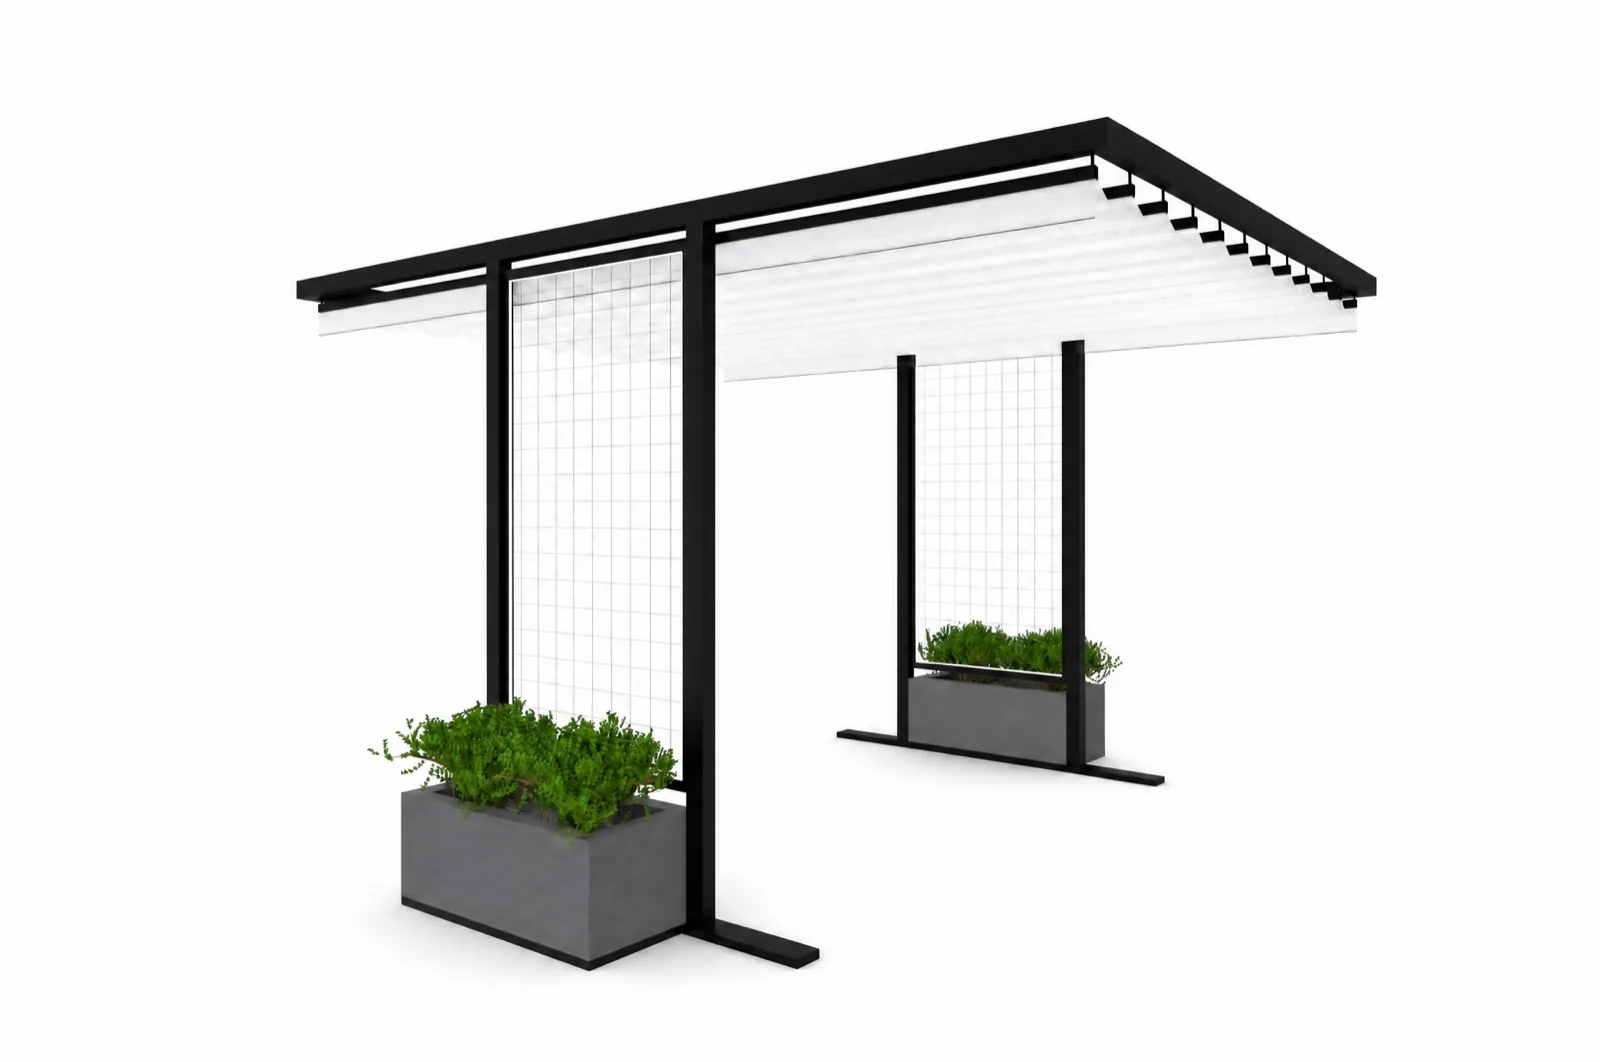
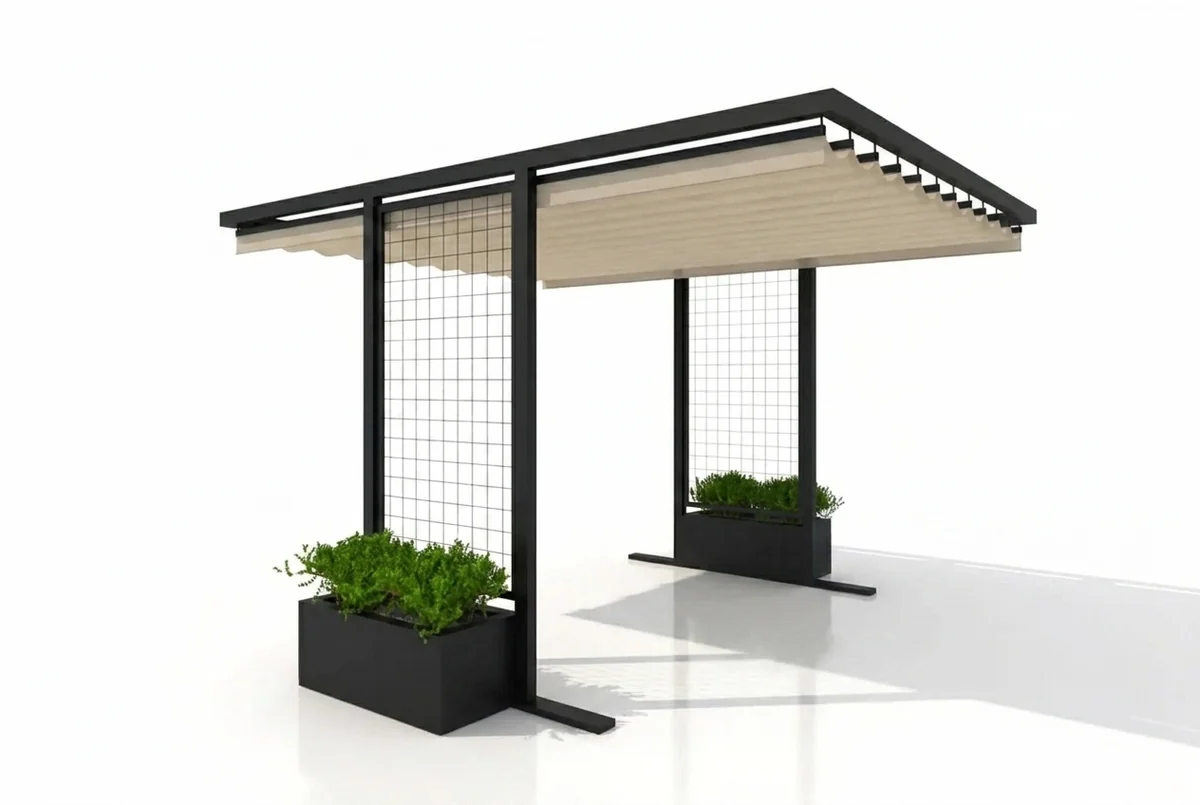
Nowa paleta kolorów producenta (wszystkie serie) + 21 renderów
Paleta zaktualizowana wg producenta: podstawowe RAL 7016/9005/9010,
premium Terra/Grey Brown/Mica/Azzurro (usunięte RAL 7039 i drewnopodobne).
Zmiany: data.jsx (COLORS_BASE/PREMIUM), konfigurator (COLORS), panel
handlowca (ADMIN_COLORS), prompt generatora (COLOR_OVERRIDES), mapy
podglądów na stronach produktowych.

Grafiki: tekstury próbników premium wycięte 1:1 z palety producenta;
21 renderów (3 serie × 7 kolorów) przez przekolorowanie wspólnej bazy
(Higgsfield nano_banana) — identyczny kadr, czysty cross-fade. Usunięte
stare pliki kolorów (7039, drewnopodobne).

Changed region(s): [[0.185, 0.0932, 1.0, 0.9317]]

diff --git a/src/data.jsx b/src/data.jsx
@@ -1,17 +1,16 @@
 // Dane produktów — dokładnie wg referencji (polski tekst, tabelki, kolory RAL, warianty)
 
 const COLORS_BASE = [
-  { name: 'RAL 7016', sub: 'Struktura', hex: '#2c3033', preview: 'uploads/colors-preview/ral-7016.webp' },
-  { name: 'RAL 9005', sub: 'Struktura', hex: '#0c0c0c', preview: 'uploads/colors-preview/ral-9005.webp' },
-  { name: 'RAL 9010', sub: 'Mat',       hex: '#f2f0ea', preview: 'uploads/colors-preview/ral-9010.webp' },
-  { name: 'RAL 7039', sub: 'Mat',       hex: '#6d6a63', preview: 'uploads/colors-preview/ral-7039.webp' },
+  { name: 'RAL 7016', sub: 'Struktura', hex: '#2c3033', preview: 'uploads/colors-preview/linea/ral-7016.webp' },
+  { name: 'RAL 9005', sub: 'Struktura', hex: '#0c0c0c', preview: 'uploads/colors-preview/linea/ral-9005.webp' },
+  { name: 'RAL 9010', sub: 'Mat',       hex: '#f2f0ea', preview: 'uploads/colors-preview/linea/ral-9010.webp' },
 ];
 
 const COLORS_PREMIUM = [
-  { name: 'Czarna wiśnia', sub: 'Drewnopodobny', img: 'uploads/colors-preview/swatch-wisnia.webp', hex: '#3a201c', preview: 'uploads/colors-preview/wisnia.webp' },
-  { name: 'Sosna',         sub: 'Drewnopodobny', img: 'uploads/sosna.webp',         hex: '#b6783a', preview: 'uploads/colors-preview/sosna.webp' },
-  { name: 'Srebrny dąb',   sub: 'Drewnopodobny', img: 'uploads/srebrny-dab.webp',   hex: '#9b948a', preview: 'uploads/colors-preview/srebrny.webp' },
-  { name: 'Złoty dąb',     sub: 'Drewnopodobny', img: 'uploads/zloty-dab.webp',     hex: '#a8631f', preview: 'uploads/colors-preview/zloty.webp' },
+  { name: 'Terra',      sub: 'Premium', img: 'uploads/colors-preview/swatch-terra.webp',      hex: '#bea991', preview: 'uploads/colors-preview/linea/terra.webp' },
+  { name: 'Grey Brown', sub: 'Premium', img: 'uploads/colors-preview/swatch-grey-brown.webp', hex: '#646363', preview: 'uploads/colors-preview/linea/grey-brown.webp' },
+  { name: 'Mica',       sub: 'Premium', img: 'uploads/colors-preview/swatch-mica.webp',       hex: '#53565c', preview: 'uploads/colors-preview/linea/mica.webp' },
+  { name: 'Azzurro',    sub: 'Premium', img: 'uploads/colors-preview/swatch-azzurro.webp',    hex: '#464b55', preview: 'uploads/colors-preview/linea/azzurro.webp' },
 ];
 
 // Linea

diff --git a/api/wizualizacja.js b/api/wizualizacja.js
@@ -46,14 +46,13 @@ const MONTAZ_PROMPTS = {
 };
 
 const COLOR_OVERRIDES = {
-  'ral-7016': 'anthracite RAL 7016 structured finish on the aluminum frame',
-  'ral-9005': 'deep black RAL 9005 structured finish on the aluminum frame',
+  'ral-7016': 'anthracite grey RAL 7016 fine-structure powder-coat finish on the aluminum frame',
+  'ral-9005': 'deep black RAL 9005 fine-structure powder-coat finish on the aluminum frame',
   'ral-9010': 'pure white RAL 9010 matte finish on the aluminum frame',
-  'ral-7039': 'quartz grey RAL 7039 matte finish on the aluminum frame',
-  'czarna-wisnia': 'wood-textured "Black Cherry" finish on the aluminum frame',
-  'sosna': 'wood-textured "Pine" finish on the aluminum frame',
-  'srebrny-dab': 'wood-textured "Silver Oak" finish on the aluminum frame',
-  'zloty-dab': 'wood-textured "Golden Oak" finish on the aluminum frame',
+  'terra': 'warm sandy-beige "Terra" textured powder-coat finish on the aluminum frame',
+  'grey-brown': 'dark grey-brown metallic "Grey Brown" textured powder-coat finish on the aluminum frame',
+  'mica': 'dark graphite "Mica" metallic powder-coat finish with subtle sparkle on the aluminum frame',
+  'azzurro': 'dark blue-grey "Azzurro" metallic powder-coat finish on the aluminum frame',
 };
 
 function buildPrompt(product, color, roof, enclosure, notes, extra) {

diff --git a/src/page-admin.jsx b/src/page-admin.jsx
@@ -1,14 +1,13 @@
 // Panel handlowca /admin — generator wizualizacji u klienta (aparat + pełne opcje serii)
 
 const ADMIN_COLORS = [
-  { id: 'ral-7016',     name: 'Antracyt RAL 7016',  swatch: '#2c3033' },
-  { id: 'ral-9005',     name: 'Czarny RAL 9005',    swatch: '#0c0c0c' },
-  { id: 'ral-9010',     name: 'Biały RAL 9010',     swatch: '#f2f0ea' },
-  { id: 'ral-7039',     name: 'Szary RAL 7039',     swatch: '#6d6a63' },
-  { id: 'czarna-wisnia',name: 'Czarna wiśnia',      swatch: '#3a201c' },
-  { id: 'sosna',        name: 'Sosna',              swatch: '#b6783a' },
-  { id: 'srebrny-dab',  name: 'Srebrny dąb',        swatch: '#9b948a' },
-  { id: 'zloty-dab',    name: 'Złoty dąb',          swatch: '#a8631f' },
+  { id: 'ral-7016',  name: 'Antracyt RAL 7016', swatch: '#2c3033' },
+  { id: 'ral-9005',  name: 'Czarny RAL 9005',   swatch: '#0c0c0c' },
+  { id: 'ral-9010',  name: 'Biały RAL 9010',    swatch: '#f2f0ea' },
+  { id: 'terra',     name: 'Terra',             swatch: '#bea991' },
+  { id: 'grey-brown',name: 'Grey Brown',        swatch: '#646363' },
+  { id: 'mica',      name: 'Mica',              swatch: '#53565c' },
+  { id: 'azzurro',   name: 'Azzurro',           swatch: '#464b55' },
 ];
 
 const ADMIN_PRODUCTS = [

diff --git a/src/page-wizualizacja.jsx b/src/page-wizualizacja.jsx
@@ -11,14 +11,13 @@ const WIZ_PRODUCTS = [
 ];
 
 const COLORS = [
-  { id: 'ral-7016',     name: 'Antracyt RAL 7016',  swatch: '#2c3033' },
-  { id: 'ral-9005',     name: 'Czarny RAL 9005',    swatch: '#0c0c0c' },
-  { id: 'ral-9010',     name: 'Biały RAL 9010',     swatch: '#f2f0ea' },
-  { id: 'ral-7039',     name: 'Szary RAL 7039',     swatch: '#6d6a63' },
-  { id: 'czarna-wisnia',name: 'Czarna wiśnia',      swatch: '#3a201c' },
-  { id: 'sosna',        name: 'Sosna',              swatch: '#b6783a' },
-  { id: 'srebrny-dab',  name: 'Srebrny dąb',        swatch: '#9b948a' },
-  { id: 'zloty-dab',    name: 'Złoty dąb',          swatch: '#a8631f' },
+  { id: 'ral-7016',  name: 'Antracyt RAL 7016', swatch: '#2c3033' },
+  { id: 'ral-9005',  name: 'Czarny RAL 9005',   swatch: '#0c0c0c' },
+  { id: 'ral-9010',  name: 'Biały RAL 9010',    swatch: '#f2f0ea' },
+  { id: 'terra',     name: 'Terra',             swatch: '#bea991' },
+  { id: 'grey-brown',name: 'Grey Brown',        swatch: '#646363' },
+  { id: 'mica',      name: 'Mica',              swatch: '#53565c' },
+  { id: 'azzurro',   name: 'Azzurro',           swatch: '#464b55' },
 ];
 
 // Rodzaje dachu zależne od produktu (zgodne z podstronami)

diff --git a/src/product-horizon.jsx b/src/product-horizon.jsx
@@ -1,14 +1,13 @@
 // Podstrona produktu HORIZON
 
 const HORIZON_COLOR_PREVIEWS = {
-  'RAL 7016':      'uploads/colors-preview/horizon/ral-7016.webp',
-  'RAL 9005':      'uploads/colors-preview/horizon/ral-9005.webp',
-  'RAL 9010':      'uploads/colors-preview/horizon/ral-9010.webp',
-  'RAL 7039':      'uploads/colors-preview/horizon/ral-7039.webp',
-  'Czarna wiśnia': 'uploads/colors-preview/horizon/wisnia.webp',
-  'Sosna':         'uploads/colors-preview/horizon/sosna.webp',
-  'Srebrny dąb':   'uploads/colors-preview/horizon/srebrny.webp',
-  'Złoty dąb':     'uploads/colors-preview/horizon/zloty.webp',
+  'RAL 7016':   'uploads/colors-preview/horizon/ral-7016.webp',
+  'RAL 9005':   'uploads/colors-preview/horizon/ral-9005.webp',
+  'RAL 9010':   'uploads/colors-preview/horizon/ral-9010.webp',
+  'Terra':      'uploads/colors-preview/horizon/terra.webp',
+  'Grey Brown': 'uploads/colors-preview/horizon/grey-brown.webp',
+  'Mica':       'uploads/colors-preview/horizon/mica.webp',
+  'Azzurro':    'uploads/colors-preview/horizon/azzurro.webp',
 };
 
 function ProductHorizon({ onQuote }) {

diff --git a/src/product-linea.jsx b/src/product-linea.jsx
@@ -1,14 +1,13 @@
 // Podstrona produktu LINEA
 
 const LINEA_COLOR_PREVIEWS = {
-  'RAL 7016':      'uploads/colors-preview/linea/ral-7016.webp',
-  'RAL 9005':      'uploads/colors-preview/linea/ral-9005.webp',
-  'RAL 9010':      'uploads/colors-preview/linea/ral-9010.webp',
-  'RAL 7039':      'uploads/colors-preview/linea/ral-7039.webp',
-  'Czarna wiśnia': 'uploads/colors-preview/linea/wisnia.webp',
-  'Sosna':         'uploads/colors-preview/linea/sosna.webp',
-  'Srebrny dąb':   'uploads/colors-preview/linea/srebrny.webp',
-  'Złoty dąb':     'uploads/colors-preview/linea/zloty.webp',
+  'RAL 7016':   'uploads/colors-preview/linea/ral-7016.webp',
+  'RAL 9005':   'uploads/colors-preview/linea/ral-9005.webp',
+  'RAL 9010':   'uploads/colors-preview/linea/ral-9010.webp',
+  'Terra':      'uploads/colors-preview/linea/terra.webp',
+  'Grey Brown': 'uploads/colors-preview/linea/grey-brown.webp',
+  'Mica':       'uploads/colors-preview/linea/mica.webp',
+  'Azzurro':    'uploads/colors-preview/linea/azzurro.webp',
 };
 
 function ProductLinea({ onQuote }) {

diff --git a/src/product-roma.jsx b/src/product-roma.jsx
@@ -1,14 +1,13 @@
 // Podstrona produktu ROMA
 
 const ROMA_COLOR_PREVIEWS = {
-  'RAL 7016':      'uploads/colors-preview/roma/ral-7016.webp',
-  'RAL 9005':      'uploads/colors-preview/roma/ral-9005.webp',
-  'RAL 9010':      'uploads/colors-preview/roma/ral-9010.webp',
-  'RAL 7039':      'uploads/colors-preview/roma/ral-7039.webp',
-  'Czarna wiśnia': 'uploads/colors-preview/roma/wisnia.webp',
-  'Sosna':         'uploads/colors-preview/roma/sosna.webp',
-  'Srebrny dąb':   'uploads/colors-preview/roma/srebrny.webp',
-  'Złoty dąb':     'uploads/colors-preview/roma/zloty.webp',
+  'RAL 7016':   'uploads/colors-preview/roma/ral-7016.webp',
+  'RAL 9005':   'uploads/colors-preview/roma/ral-9005.webp',
+  'RAL 9010':   'uploads/colors-preview/roma/ral-9010.webp',
+  'Terra':      'uploads/colors-preview/roma/terra.webp',
+  'Grey Brown': 'uploads/colors-preview/roma/grey-brown.webp',
+  'Mica':       'uploads/colors-preview/roma/mica.webp',
+  'Azzurro':    'uploads/colors-preview/roma/azzurro.webp',
 };
 
 function ProductRoma({ onQuote }) {
